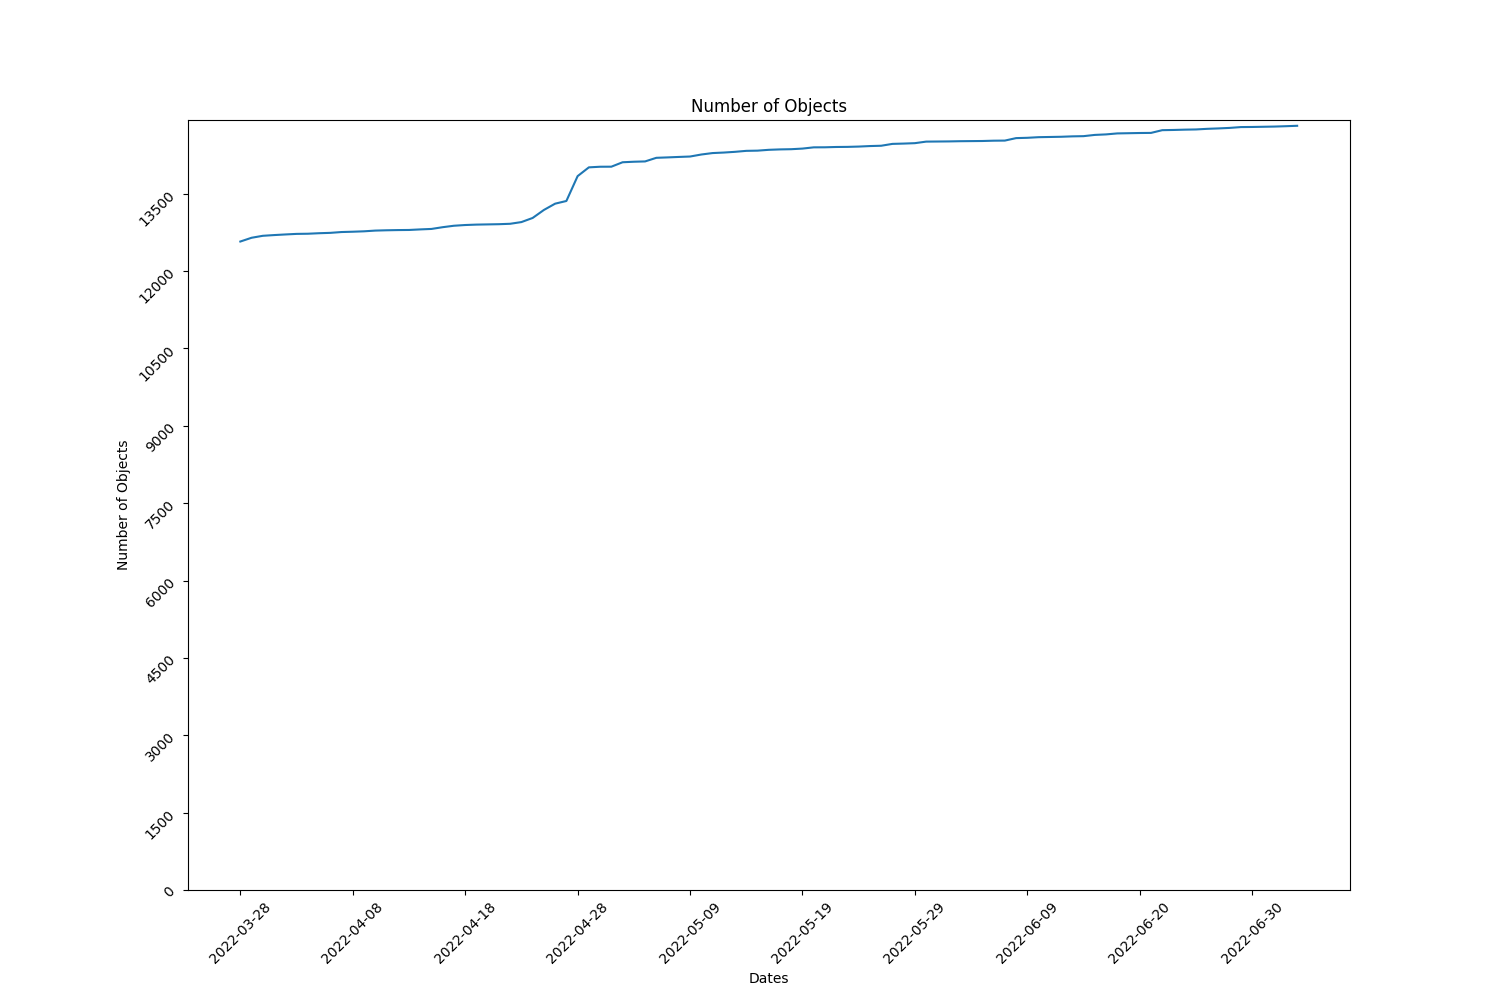
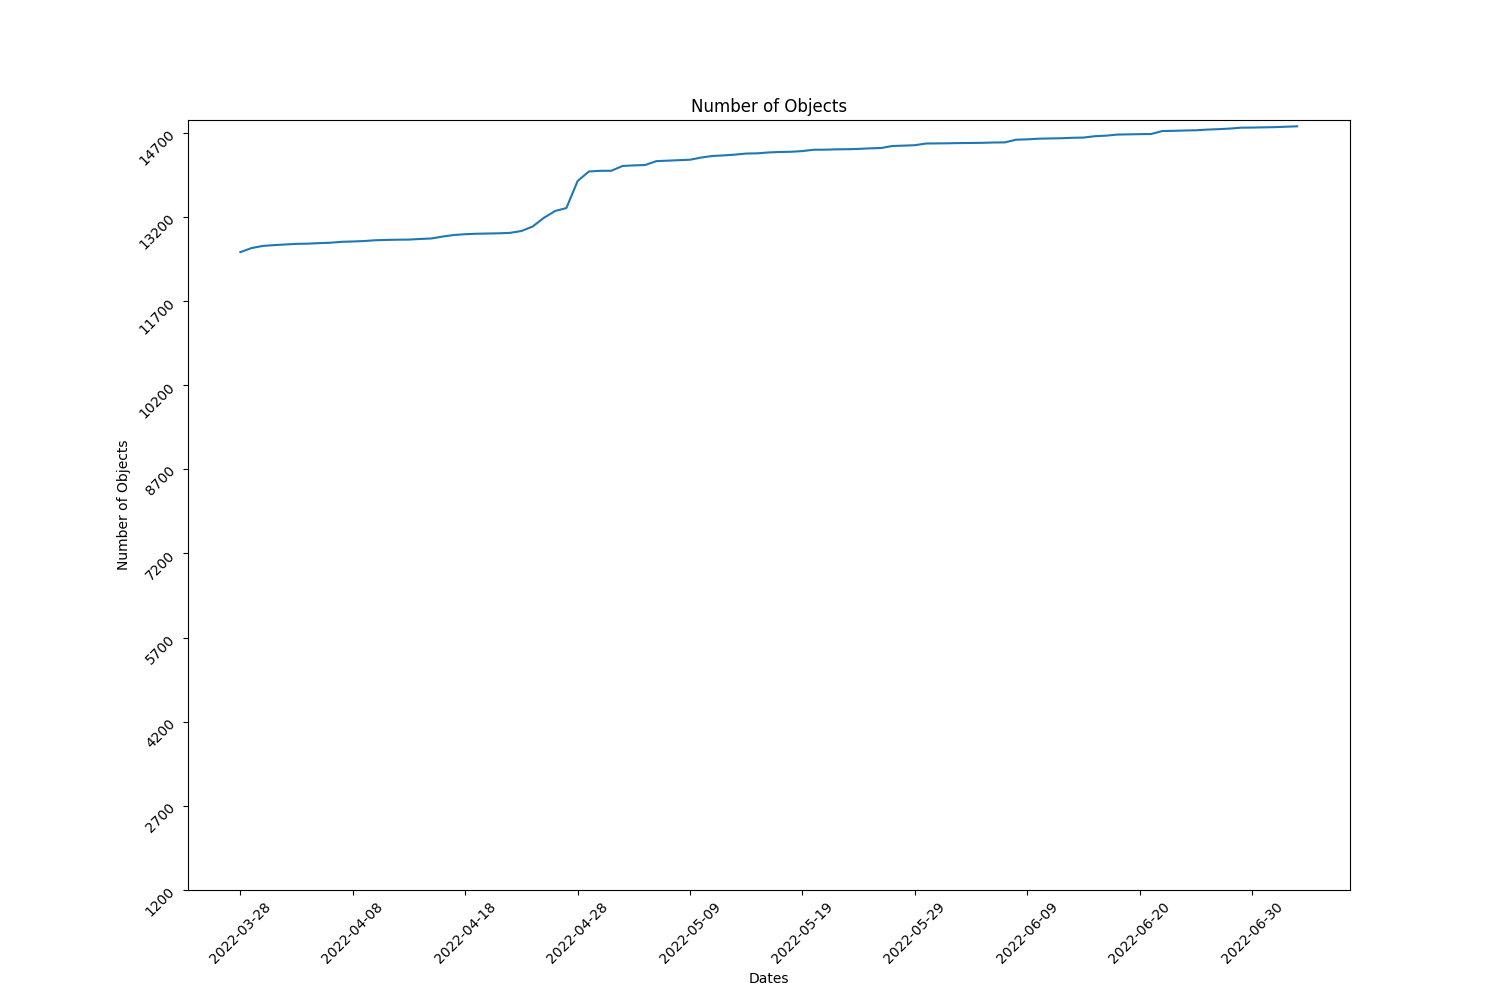
plot objects

diff --git a/report.py b/report.py
@@ -289,15 +289,15 @@ def get_draw_objects(file1name, file2name):
     num_objects[index] += num_objects[index-1]  
   
 
-  plot(dates[1:], sizes[1:], 'Size (Sum, GB)', 'Dates', 'Size', 10, 100,file1name)
-  plot(dates[1:], num_objects[1:], 'Number of Objects', 'Dates', 'Number of Objects', 10, 1500,file2name)
+  plot(dates[1:], sizes[1:], 'Size (Sum, GB)', 'Dates', 'Size', 0, 700 , 10, 100,file1name)
+  plot(dates[1:], num_objects[1:], 'Number of Objects', 'Dates', 'Number of Objects', 0, 1200, 10, 1500,file2name)
 
-def plot(x, y, title, x_label, y_label, x_spacing, y_spacing,filename):
+def plot(x, y, title, x_label, y_label, x_start, y_start, x_spacing, y_spacing,filename):
   fig, ax = plt.subplots()
   fig.set_size_inches(15, 10)
   plt.plot(x, y)
-  ax.set_xticks(np.arange(0, len(x)+1, x_spacing))
-  ax.set_yticks(np.arange(0, max(y), y_spacing))
+  ax.set_xticks(np.arange(x_start, len(x)+1, x_spacing))
+  ax.set_yticks(np.arange(y_start, max(y), y_spacing))
   ax.set_title(title)
   ax.set(xlabel=x_label, ylabel=y_label)
   plt.xticks(rotation=45)
